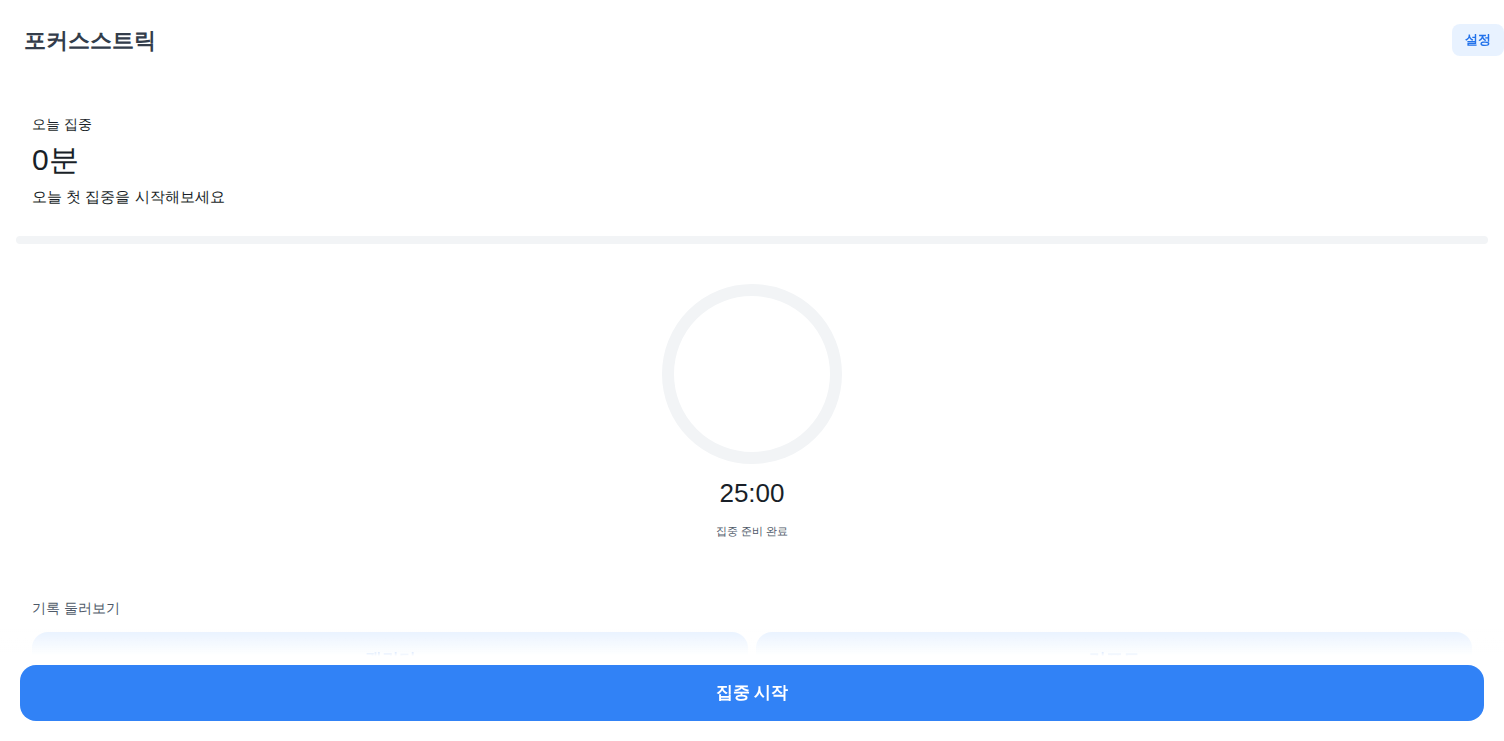
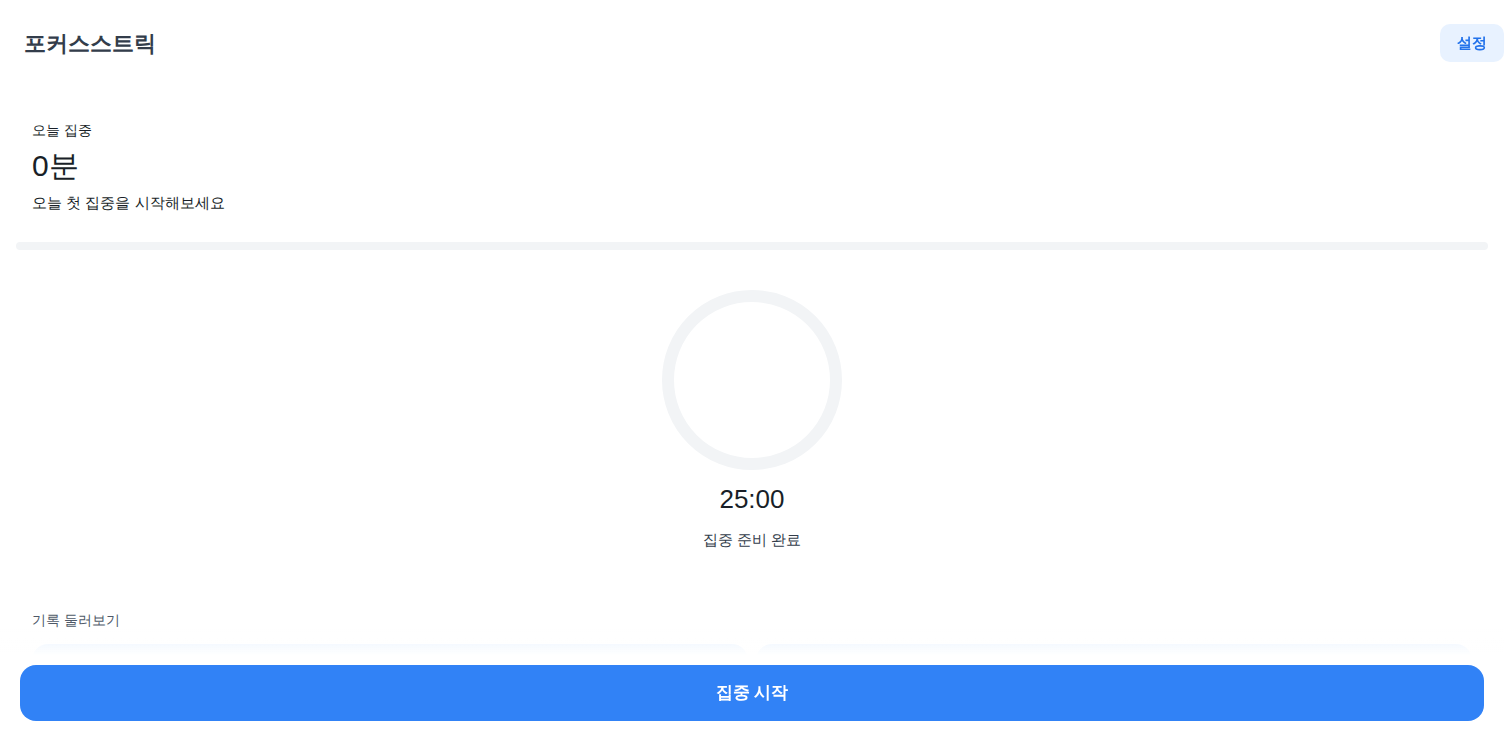
fix: visual UI improvements (round 2)

diff --git a/src/pages/Badges.tsx b/src/pages/Badges.tsx
@@ -1,6 +1,7 @@
 import { useEffect } from 'react';
+import { Award, Lock } from 'lucide-react';
 import { useNavigate } from 'react-router-dom';
-import { Top, Button, Paragraph, Spacing, Asset } from '@toss/tds-mobile';
+import { Top, Button, Paragraph, Spacing } from '@toss/tds-mobile';
 import { ScreenScaffold } from '../components/ScreenScaffold';
 import { SummaryHero } from '../components/SummaryHero';
 import { Card } from '../components/Card';
@@ -55,7 +56,7 @@ export default function Badges() {
         <Top
           title={<Top.TitleParagraph>배지</Top.TitleParagraph>}
           right={
-            <Button variant="weak" size="small" onClick={() => navigate(-1)}>
+            <Button variant="weak" size="medium" onClick={() => navigate(-1)}>
               닫기
             </Button>
           }
@@ -85,18 +86,6 @@ export default function Badges() {
       ) : null}
       <Spacing size={16} />
 
-      {unlocked.size === 0 ? (
-        <>
-          <div style={{ display: 'flex', alignItems: 'center', gap: 8 }}>
-            <Asset.ContentIcon name="icon-warning-circle" alt="" style={{ width: 32, height: 32 }} />
-            <Paragraph.Text typography="t6">
-              첫 집중을 시작하면 배지가 열려요
-            </Paragraph.Text>
-          </div>
-          <Spacing size={16} />
-        </>
-      ) : null}
-
       <div
         data-testid="badge-grid"
         style={{ display: 'grid', gridTemplateColumns: '1fr 1fr', gap: 12 }}
@@ -107,11 +96,17 @@ export default function Badges() {
             <Card
               key={badge.id}
               testId="badge-card"
-              style={{ opacity: isUnlocked ? 1 : 0.7 }}
+              style={{ opacity: isUnlocked ? 1 : 0.85 }}
             >
+              {isUnlocked ? (
+                <Award size={28} aria-hidden="true" color="var(--adaptiveBlue500)" />
+              ) : (
+                <Lock size={28} aria-hidden="true" color="var(--adaptiveGrey500)" />
+              )}
+              <Spacing size={8} />
               <Paragraph.Text typography="t5">{badge.title}</Paragraph.Text>
               <Spacing size={4} />
-              <Paragraph.Text typography="st13">
+              <Paragraph.Text typography="t7" color="var(--adaptiveGrey700)">
                 {isUnlocked ? '획득 완료' : BADGE_CONDITION[badge.id]}
               </Paragraph.Text>
             </Card>

diff --git a/src/pages/Calendar.tsx b/src/pages/Calendar.tsx
@@ -133,10 +133,10 @@ export default function Calendar() {
       }
     >
       <div style={{ display: 'flex', justifyContent: 'space-between' }}>
-        <Button variant="weak" size="small" onClick={prevMonth}>
+        <Button variant="weak" size="medium" onClick={prevMonth}>
           이전 달
         </Button>
-        <Button variant="weak" size="small" onClick={nextMonth} disabled={isThisMonth}>
+        <Button variant="weak" size="medium" onClick={nextMonth} disabled={isThisMonth}>
           다음 달
         </Button>
       </div>
@@ -175,6 +175,9 @@ export default function Calendar() {
                   fontSize: 12,
                   color: cell.level >= 2 ? 'var(--adaptiveBackground)' : 'var(--adaptiveGrey800)',
                   backgroundColor: levelBackgroundColor(cell.level),
+                  fontWeight: cell.dateKey === toDateKey(Date.now()) ? 700 : 400,
+                  outline: cell.dateKey === toDateKey(Date.now()) ? '2px solid var(--adaptiveBlue500)' : 'none',
+                  outlineOffset: -2,
                 }}
               >
                 {Number(cell.dateKey.slice(8))}

diff --git a/src/pages/Report.tsx b/src/pages/Report.tsx
@@ -121,19 +121,17 @@ export default function Report() {
         />
       }
     >
-      <Paragraph.Text typography="t6" color="var(--adaptiveGrey800)">
-        {weekRangeLabel}
-      </Paragraph.Text>
+      <div style={{ paddingLeft: 8 }}>
+        <Paragraph.Text typography="t6" color="var(--adaptiveGrey700)">
+          {weekRangeLabel}
+        </Paragraph.Text>
+      </div>
 
       <Spacing size={24} />
 
       {locked ? (
         <Card testId="report-lock-card">
-          <Asset.ContentIcon
-            name="icon-warning-circle"
-            alt=""
-            style={{ width: 40, height: 40 }}
-          />
+          <Asset.ContentIcon name="icon-warning-circle" alt="" style={{ width: 40, height: 40 }} />
           <Spacing size={12} />
           <Paragraph.Text typography="t4">이번 주 집중 리포트가 준비됐어요</Paragraph.Text>
           <Spacing size={4} />

diff --git a/src/pages/Rank.tsx b/src/pages/Rank.tsx
@@ -7,9 +7,9 @@ import {
   Spacing,
   ListRow,
   TextField,
+  Asset,
   BottomSheet,
   Toast,
-  Asset,
 } from '@toss/tds-mobile';
 import { ScreenScaffold } from '../components/ScreenScaffold';
 import { SummaryHero } from '../components/SummaryHero';
@@ -187,7 +187,7 @@ export default function Rank() {
         <Top
           title={<Top.TitleParagraph>친구 랭킹</Top.TitleParagraph>}
           right={
-            <Button variant="weak" size="small" onClick={() => navigate(-1)}>
+            <Button variant="weak" size="medium" onClick={() => navigate(-1)}>
               닫기
             </Button>
           }

diff --git a/src/components/CircularProgress.tsx b/src/components/CircularProgress.tsx
@@ -16,7 +16,8 @@ export function CircularProgress({
   strokeWidth?: number;
   testId?: string;
 }) {
-  const clamped = Math.max(0, Math.min(1, ratio));
+  // 시작 전(0)에도 진행 아크의 시작점이 보이도록 최소 호를 남긴다.
+  const clamped = Math.max(0.02, Math.min(1, ratio));
   const radius = (size - strokeWidth) / 2;
   const circumference = 2 * Math.PI * radius;
   const offset = circumference * (1 - clamped);

diff --git a/src/components/ScreenScaffold.tsx b/src/components/ScreenScaffold.tsx
@@ -26,7 +26,7 @@ export function ScreenScaffold({
   return (
     <PageShell style={top ? { paddingTop: 0 } : undefined}>
       {top}
-      <div style={{ padding: bottom ? "16px 16px calc(var(--toss-safe-area-bottom) + 96px)" : "16px 16px 0" }}>{children}</div>
+      <div style={{ padding: bottom ? "16px 16px calc(var(--toss-safe-area-bottom) + 128px)" : "16px 16px 0" }}>{children}</div>
       {bottom}
     </PageShell>
   );

diff --git a/src/pages/History.tsx b/src/pages/History.tsx
@@ -109,7 +109,7 @@ export default function History() {
         <Top
           title={<Top.TitleParagraph>{`${m}월 ${d}일 기록`}</Top.TitleParagraph>}
           right={
-            <Button variant="weak" size="small" onClick={() => navigate(-1)}>
+            <Button variant="weak" size="medium" onClick={() => navigate(-1)}>
               닫기
             </Button>
           }

diff --git a/src/pages/Settings.tsx b/src/pages/Settings.tsx
@@ -106,7 +106,7 @@ export default function Settings() {
         <Top
           title={<Top.TitleParagraph>설정</Top.TitleParagraph>}
           right={
-            <Button variant="weak" size="small" onClick={() => navigate(-1)}>
+            <Button variant="weak" size="medium" onClick={() => navigate(-1)}>
               닫기
             </Button>
           }
